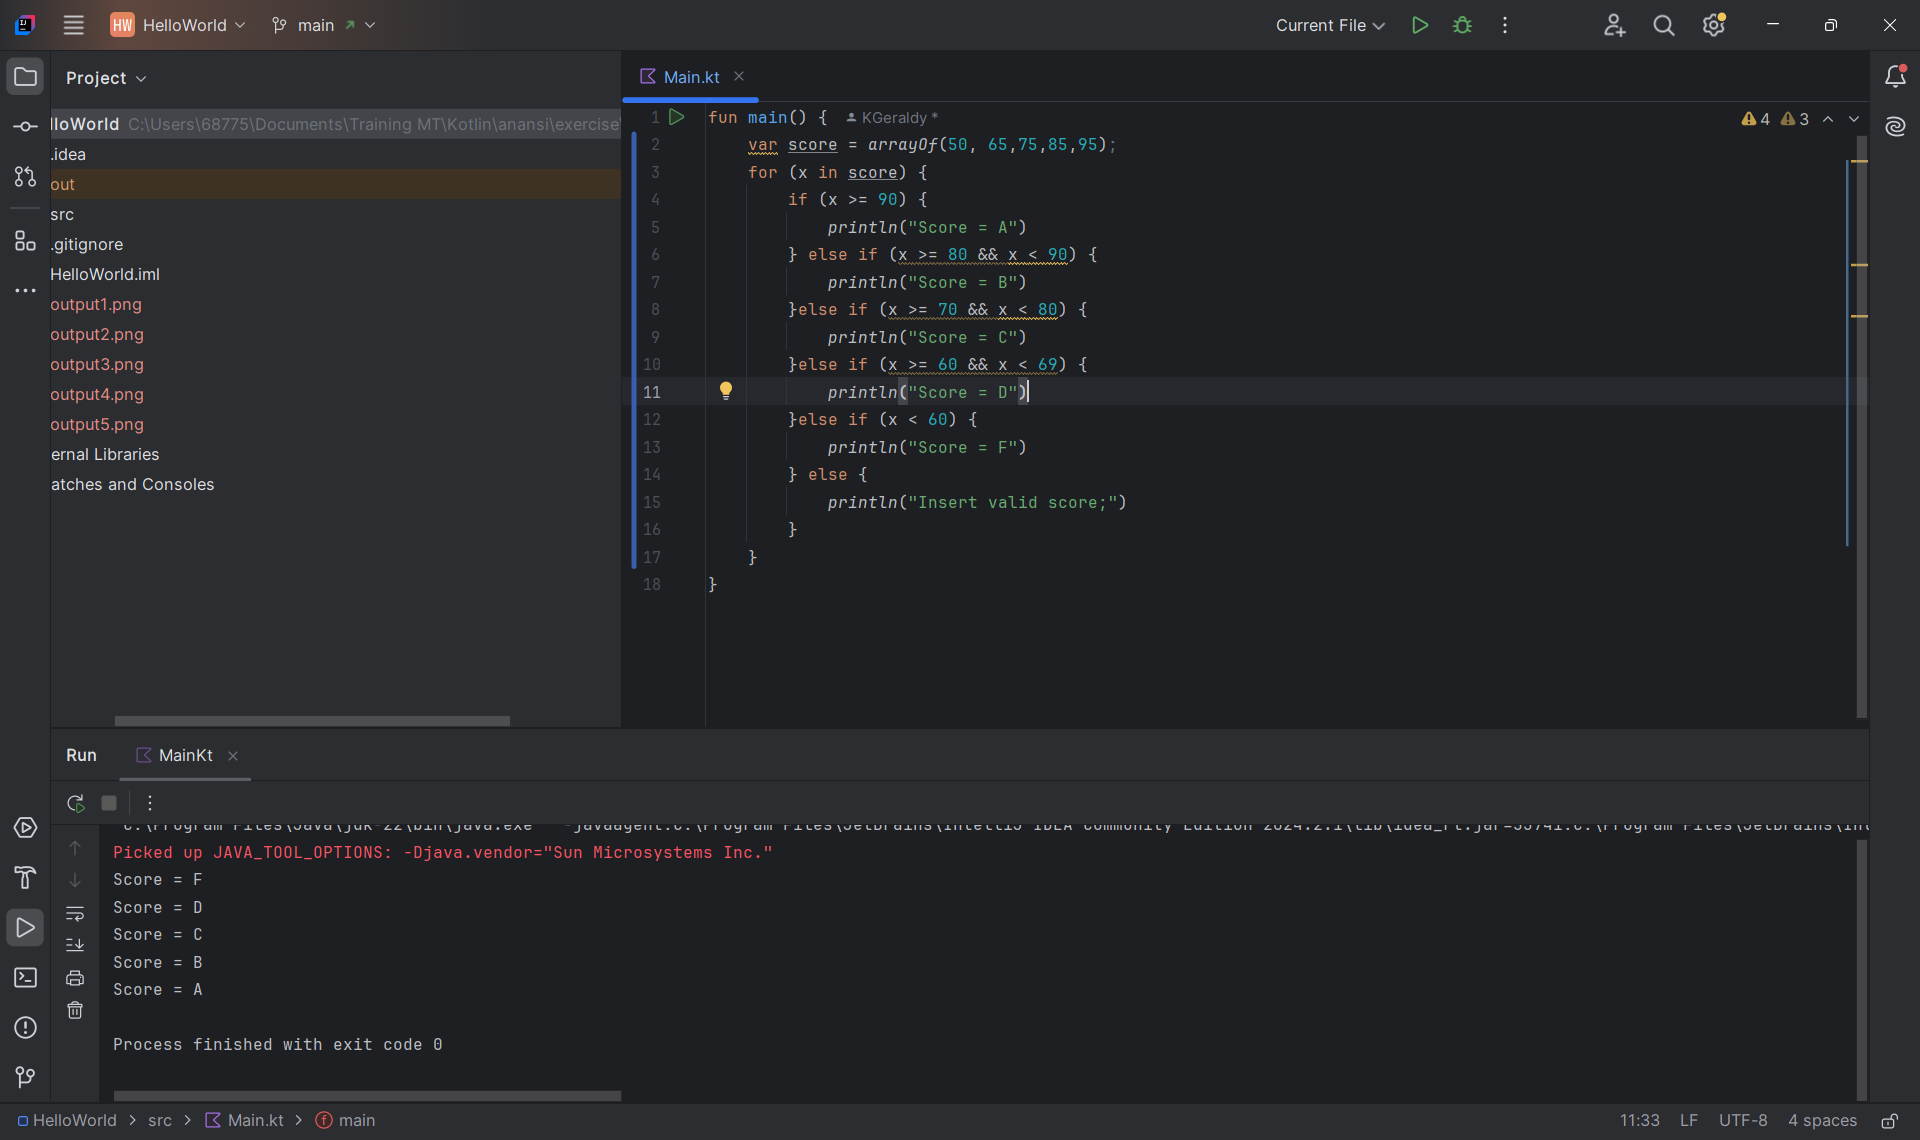
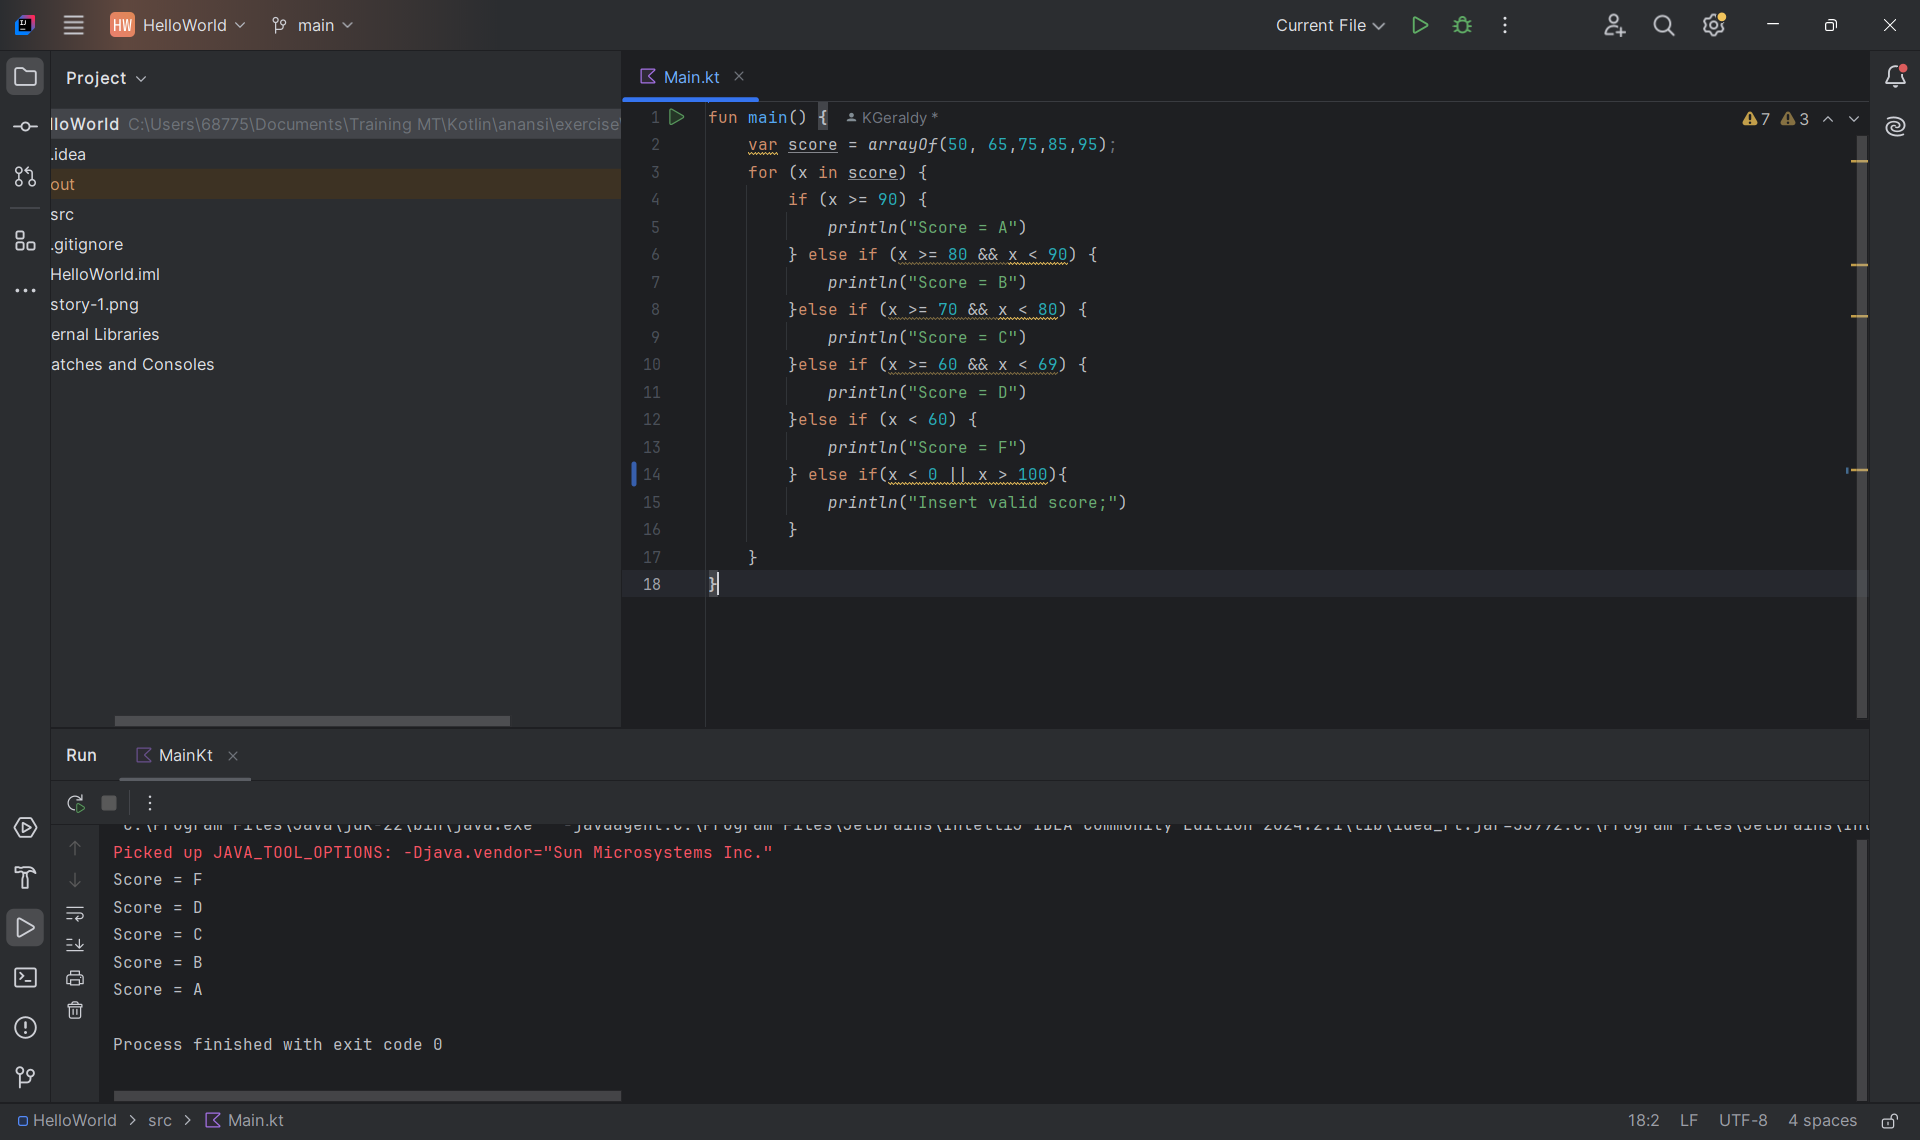
add story-1

diff --git a/exercise/day-1/HelloWorld/src/Main.kt b/exercise/day-1/HelloWorld/src/Main.kt
@@ -11,7 +11,7 @@ fun main() {
             println("Score = D")
         }else if (x < 60) {
             println("Score = F")
-        } else {
+        } else if(x < 0 || x > 100){
             println("Insert valid score;")
         }
     }
